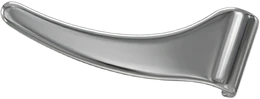
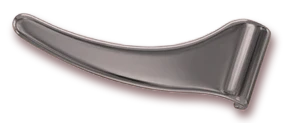
Works: clear acrylic dial plate and two rows of digit dots
The plate is now translucent like the phone in the photo, with a soft
shadow for thickness; the finger stop is toned to the room light. The
entered digits are shown in two rows on the center card.

diff --git a/works.html b/works.html
@@ -99,6 +99,7 @@
     width: 14.46%;
     aspect-ratio: 1;
     transform: translateY(-50%);
+    filter: drop-shadow(0 1.5px 1px rgba(60, 0, 0, 0.35)); /* 盤の厚み */
   }
   .dial-wheel {
     display: block;
@@ -115,17 +116,18 @@
   }
   .dial-needle {
     position: absolute;
-    left: 54.57%;
-    top: 67.9%;
-    width: 4.66%;
-    height: 0.99%;
+    left: 54.355%;
+    top: 67.78%;
+    width: 5.09%;
+    height: 1.23%;
   }
   .dial-dots { /* 中央の紙に、入力した桁数を表示 */
     position: absolute;
     left: 50.72%;
     top: 67.95%;
     transform: translate(-50%, -50%);
-    display: flex;
+    display: grid;
+    grid-template-columns: repeat(4, 3px); /* 2行に並べる */
     gap: 1px;
   }
   .dial-dots i {
@@ -168,12 +170,12 @@
 
 <div class="works-frame melt-wait" id="worksFrame" role="link" tabindex="0" aria-label="トップへ戻る">
   <div class="works-scene">
-  <img class="works-img" src="assets/img/works-closed.webp?v=5" alt="Shih TingFang Diner — Works (2022~) 赤いダイヤル電話">
+  <img class="works-img" src="assets/img/works-closed.webp?v=6" alt="Shih TingFang Diner — Works (2022~) 赤いダイヤル電話">
   <div class="dial-layer">
     <div class="phone-tap" id="phoneTap"></div>
     <img class="dial-bed" src="assets/img/dial-bed.webp?v=1" alt="" draggable="false">
-    <div class="dial-box"><img class="dial-wheel" id="dialWheel" src="assets/img/dial-wheel.webp?v=2" alt="" draggable="false"></div>
-    <img class="dial-needle" src="assets/img/dial-needle.webp?v=1" alt="" draggable="false">
+    <div class="dial-box"><img class="dial-wheel" id="dialWheel" src="assets/img/dial-wheel.webp?v=3" alt="" draggable="false"></div>
+    <img class="dial-needle" src="assets/img/dial-needle.webp?v=2" alt="" draggable="false">
     <div class="dial-dots" id="dialDots" aria-hidden="true"></div>
     <div class="dial-hit" id="dialHit" role="application" aria-label="番号を回して入力するダイヤル。キーボードの数字でも入力できます"></div>
     <div class="dial-status" id="dialStatus" aria-live="polite"></div>
@@ -344,6 +346,6 @@
   });
 })();
 </script>
-<script src="works-dial.js?v=3"></script>
+<script src="works-dial.js?v=4"></script>
 </body>
 </html>

diff --git a/works-dial.js b/works-dial.js
@@ -33,6 +33,7 @@
     var html = "";
     for (var i = 0; i < digitsNeeded; i++) html += "<i" + (i < entered.length ? ' class="on"' : "") + "></i>";
     dots.innerHTML = html;
+    dots.style.gridTemplateColumns = "repeat(" + Math.ceil(digitsNeeded / 2) + ", 3px)"; // 2行に並べる
   }
   renderDots();
 

diff --git a/docs/works-dial-spec.md b/docs/works-dial-spec.md
@@ -6,7 +6,7 @@ Works (2022~) の電話のダイヤルを回して番号を入力し、正しけ
 今の中身は空で、正解しても CLOSED の札はそのまま。受話器の音だけが鳴る。
 
 - 画面と操作: `works-dial.js`、`works.html` の `.dial-*`
-- 画像: `dial-bed.webp`（古いダイヤルを隠す土台と中央の紙）、`dial-wheel.webp`（回る盤）、`dial-needle.webp`（指止め）
+- 画像: `dial-bed.webp`（古いダイヤルを隠す土台と中央の紙）、`dial-wheel.webp`（回る盤。元写真に合わせて半透明のアクリル風、厚みは CSS の影）、`dial-needle.webp`（指止め）
 - `works-closed.webp` にも同じ盤と指止めを合成してある（溶ける演出の間も同じ見た目にするため）
 - 暗号文: `assets/works.enc.json`（AES-256-GCM、鍵は PBKDF2-SHA256 60万回）
 
@@ -27,6 +27,7 @@ Works (2022~) の電話のダイヤルを回して番号を入力し、正しけ
 | 穴の位置の判定 | `works-dial.js` の `HOLES` |
 | 指止めまでの角度 | `FIRST_TRAVEL` |
 | 戻る速さ | `RETURN_SPEED` |
+| 入力した桁の点 | `.dial-dots`（桁数の半分ずつ2行に並ぶ） |
 | 話し中の音 | `busyTone()` |
 | 拡大の大きさ | `works.html` の `.phone-zoom .works-scene` の `scale(2.4)` |
 | 電話のタップ範囲 | `works.html` の `.phone-tap` |
